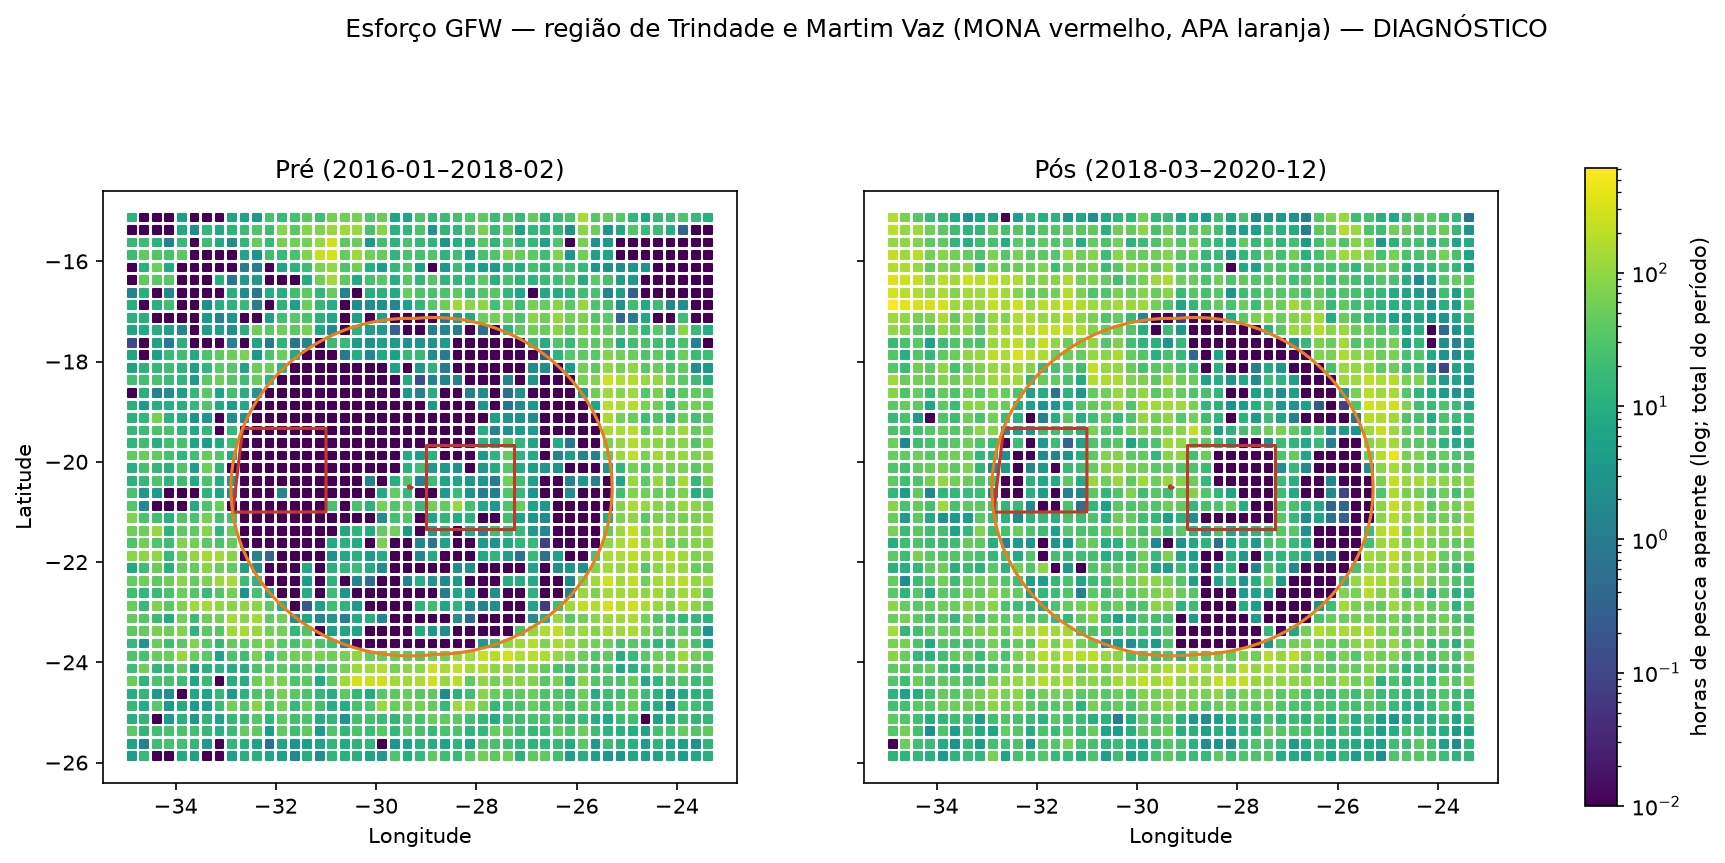
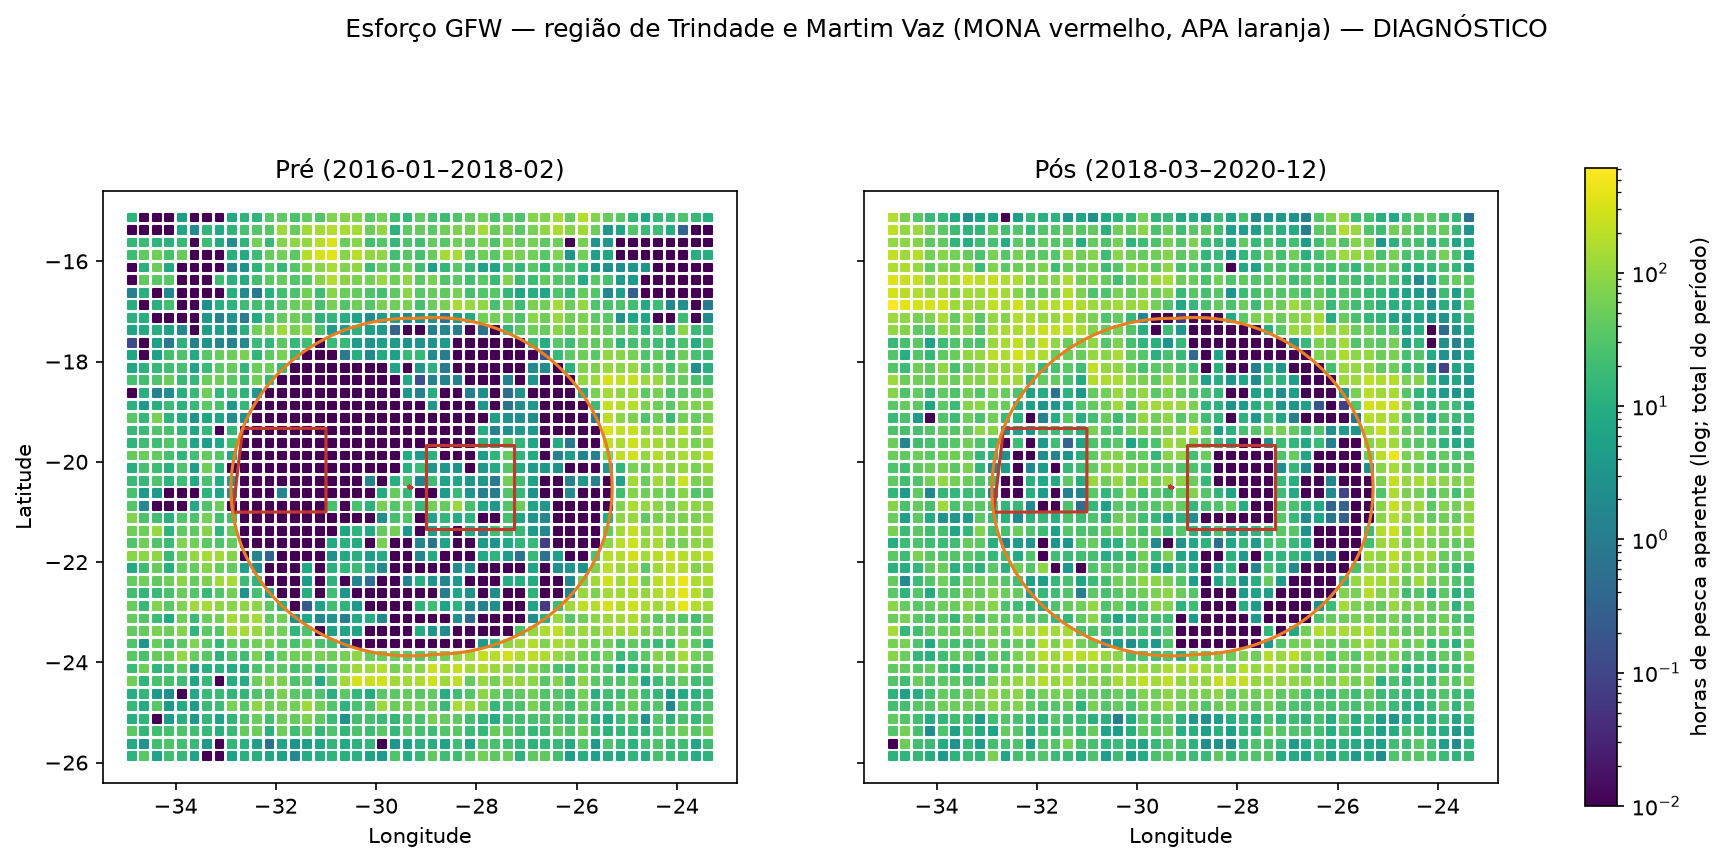
Fase 1 (Trindade): motor espacial em sf, modelos por zona e FALHA das pré-tendências
- R/10, R/11, R/19, R/15: anéis geodésicos (s2, fecha D4), painel de
  tratamento, modelo por zona, decomposição de leakage, event study
- Painel estendido para 2014-2020 (2 novas extrações GFW; pilot_window
  agora vem de config.yml)
- ACHADO CENTRAL: com 4 anos de pré-período, MONA e APA mostram queda
  monotônica relativa ao controle desde 2014 (Wald dos leads p≈0) — a
  hipótese de tendências paralelas não se sustenta; com 1 só lead o teste
  'passava', o que mostra por que 2 anos de pré não bastam
- Diagnóstico provável: expansão diferencial de cobertura AIS (D13) ou
  migração oceanográfica da frota; remédios ordenados em docs/phase1_report.md
  (presença GFW como denominador, OISST, synthdid, HonestDiD)
- Decomposição de leakage implementada mas SUSPENSA até identificação

diff --git a/python/feasibility_pilot.py b/python/feasibility_pilot.py
@@ -149,7 +149,10 @@ def main():
           f"dentro APA (fora MONA): {cnt['apa']} | fora: {cnt['outside']}")
 
     print("== 4. Painel célula × mês (esforço = NA até token GFW) ==")
-    months = [(y, m) for y in range(2016, 2021) for m in range(1, 13)]
+    import re as _re
+    cfg = (ROOT / "config" / "config.yml").read_text(encoding="utf-8")
+    y0, y1 = [int(y) for y in _re.findall(r'pilot_window:\s*\["(\d{4})-\d{2}-\d{2}",\s*"(\d{4})', cfg)[0]]
+    months = [(y, m) for y in range(y0, y1 + 1) for m in range(1, 13)]
     with OUT_PANEL.open("w", newline="", encoding="utf-8") as fh:
         w = csv.writer(fh)
         w.writerow(["cell_lon", "cell_lat", "zone", "dist_boundary_km",

diff --git a/docs/phase1_report.md b/docs/phase1_report.md
@@ -1,0 +1,87 @@
+# Relatório da fase 1 — caso Trindade (iniciado 2026-09-10)
+
+Autorizado pela decisão D1 (aprovada em 10/09). Este documento registra o
+que a fase 1 produziu, na ordem em que foi produzido, incluindo o que NÃO
+funcionou. Nada aqui é resultado final.
+
+## 1. Motor espacial (R/sf) — concluído
+
+- Distâncias GEODÉSICAS (sf 1.1.2 + s2), sem reprojeção → fecha D4 para o caso.
+- Zonas mutuamente exclusivas por centro de célula (0,25°): `mona` (91
+  células), `apa` fora do MONA (561), anéis externos à APA 0–10 km (40),
+  10–25 (50), 25–50 (88), 50–100 (207), controle >100 km (1.031).
+- Funções: `R/10_build_spatial_rules.R`, `R/11_build_treatment.R`,
+  `R/19_spillovers.R`, `R/15_event_study.R`; runner
+  `scripts/08_phase1_trindade_rings.R`.
+- Painel: 2.068 células × 84 meses (2014-01–2020-12) = 173.712 linhas,
+  `data/processed/panel_trindade_phase1.csv`.
+
+## 2. Modelo estático por zona (TWFE, FE célula + ano-mês, cluster célula)
+
+| Zona | ihs(horas) | presença | leitura ingênua |
+|---|---:|---:|---|
+| MONA | −0,091*** | −0,040*** | queda |
+| APA | +0,019 (ns) | −0,002 | nada |
+| anel 0–10 km | −0,109*** | −0,042*** | queda |
+| anel 10–25 | +0,047 | +0,012 | nada |
+| anel 25–50 | +0,103*** | +0,026** | aumento |
+| anel 50–100 | +0,135*** | +0,047*** | aumento |
+
+**Esta tabela NÃO deve ser interpretada causalmente** — ver seção 3.
+
+## 3. Teste de pré-tendências — FALHOU para MONA e APA
+
+Event study anual, efeitos fixos de célula, ano-mês e **sazonalidade
+própria de cada zona** (zona × mês do ano), referência 2017, controle
+>100 km (`outputs/tables/pretrend_tests_trindade.csv`,
+`outputs/figures/eventstudy_annual_trindade_phase1.png`):
+
+| Zona | 2014 | 2015 | 2016 | 2017 | 2018 | 2019 | 2020 | Wald leads (p) |
+|---|---:|---:|---:|---:|---:|---:|---:|---:|
+| MONA | +0,133*** | +0,096*** | +0,011 | ref | −0,094*** | −0,008 | −0,048* | ≈0 |
+| APA | +0,156*** | +0,119*** | +0,037** | ref | −0,002 | +0,103*** | +0,093*** | ≈0 |
+| anel 0–10 | −0,055 | −0,084 | −0,047 | ref | −0,140*** | −0,212*** | −0,040 | 0,074 |
+| anel 10–25 | −0,144** | −0,167** | −0,019 | ref | +0,151* | −0,022 | −0,069 | <0,001 |
+
+Leitura: **MONA e APA vêm em queda monotônica relativa ao controle desde
+2014**, muito antes do decreto. Os "efeitos" pós-2018 têm a mesma ordem de
+grandeza dos movimentos pré. A hipótese de tendências paralelas não se
+sustenta nesta especificação. Só o anel 0–10 km passa (p = 0,074), e com
+efeito de sinal negativo — o oposto do leakage clássico (H2).
+
+Nota: com apenas 2016–2017 como pré-período (versão anterior do painel), o
+teste "passava" para MONA e anel — porque tinha um único lead. **Um teste de
+pré-tendência com um lead não é um teste.** Foi a extensão para 2014 que
+revelou o problema.
+
+## 4. Diagnóstico provável e o que vem a seguir
+
+A causa mais plausível é a **D13**: expansão diferencial da cobertura AIS —
+o controle (oceano aberto, rotas de navegação) ganhou recepção mais rápido
+que as zonas próximas às ilhas — ou uma migração real da frota de espinhel
+para longe das ilhas ao longo de 2014–2017 (oceanográfica). Os dois têm
+remédios distintos e ambos serão tentados, nesta ordem:
+
+1. **Normalização por cobertura**: `public-global-presence` do GFW (horas
+   de presença de todas as embarcações) como denominador ou controle — a
+   presença de navios não-pesqueiros mede recepção independente da pesca.
+   Extração em andamento.
+2. **Controles ambientais** (SST OISST; clorofila se acessível) para a
+   hipótese oceanográfica.
+3. **Synthetic DiD** (pacote `synthdid`, já instalado) — pondera doadores
+   para reproduzir a trajetória pré da zona tratada; é o desenho
+   pré-registrado para "unidade tratada única".
+4. **Sensibilidade a violações de tendências paralelas** (Rambachan–Roth,
+   `HonestDiD`) — reporta o quanto de desvio da tendência pré o resultado
+   tolera.
+5. Se nada disso restaurar a identificação, o artigo diz isso: a criação
+   da UC de Trindade **não é avaliável com AIS** no período, e o caso passa
+   a ilustrar a seção de limitações/SI. Preferível a um resultado falso.
+
+## 5. Decomposição de leakage — suspensa
+
+A decomposição (protocolo, seção 7) foi implementada
+(`leakage_decomposition()` em `R/19_spillovers.R`,
+`outputs/tables/leakage_decomposition_trindade.csv`), mas só será reportada
+quando a identificação for restaurada; sem tendências paralelas, a soma das
+parcelas não tem interpretação causal.

diff --git a/outputs/diagnostics/pilot_effort_summary.md b/outputs/diagnostics/pilot_effort_summary.md
@@ -5,8 +5,8 @@ Fonte: GFW 4wings report v4.0, acesso 2026-09-04. NÃO é resultado causal: sem 
 
 | Zona | Pré (média h/célula-mês) | Pós | Δ% |
 |---|---|---|---|
-| mona | 0.264 | 0.252 | -4.6% |
-| apa | 0.133 | 0.699 | +425.6% |
-| outside | 1.502 | 1.562 | +4.0% |
+| mona | 0.137 | 0.252 | +83.5% |
+| apa | 0.071 | 0.699 | +889.8% |
+| outside | 0.981 | 1.562 | +59.3% |
 
-Horas totais por geartype na região (2016–2020): drifting_longlines=145303, fishing=1417, trawlers=1007
+Horas totais por geartype na região (2016–2020): drifting_longlines=159531, fishing=1417, trawlers=1007
